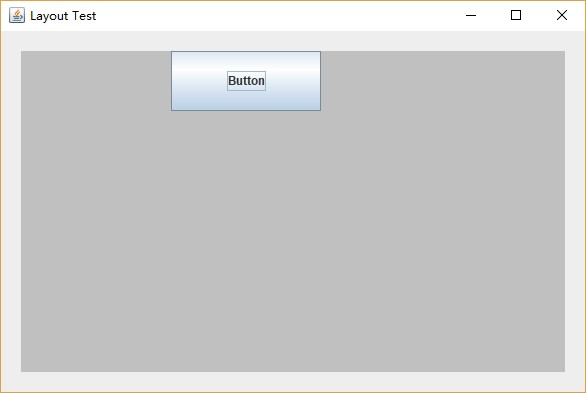
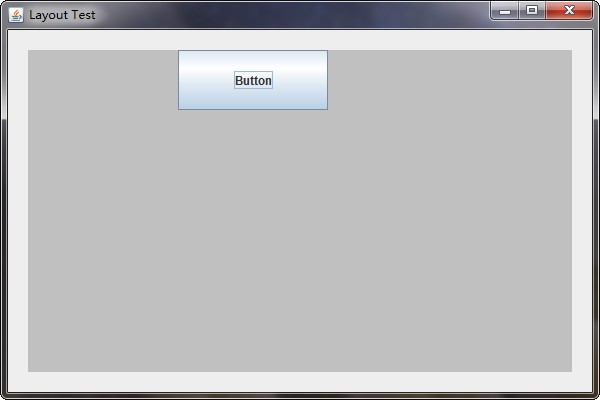
DDD/DSL Layout

Changed region(s): [[0.0, 0.0, 1.0, 1.0]]

diff --git a/DDD DSL/DDD DSL Design War Layout/Code/Java/src/fayelab/ddd/layout/TestFrm.java b/DDD DSL/DDD DSL Design War Layout/Code/Java/src/fayelab/ddd/layout/TestFrm.java
@@ -6,10 +6,13 @@ import java.awt.Container;
 import java.awt.Dimension;
 import java.awt.Toolkit;
 import java.awt.event.WindowEvent;
+import java.util.stream.Collectors;
+import java.util.stream.IntStream;
 
 import javax.swing.JFrame;
 import javax.swing.JPanel;
 
+import fayelab.ddd.layout.component.BaseComponent;
 import fayelab.ddd.layout.component.Button;
 import fayelab.ddd.layout.component.Component;
 import fayelab.ddd.layout.component.TextField;
@@ -105,6 +108,73 @@ public class TestFrm extends JFrame
     {        
         beside(empty(), button().title("Button"), 0.5f).at(0, 0, 300, 60).in(container);
     }
+    
+    private void test_center()
+    {
+        center(button().title("Center"), 0.2f, 0.1f).at(0, 0, 300, 60).in(container);
+    }
+    
+    private void test_hSeq()
+    {
+        hSeq(button().title("1"), button().title("2"), button().title("3")).at(0, 0, 300, 60).in(container);
+    }
+    
+    private void test_vSeq()
+    {
+        vSeq(button().title("1"), button().title("2"), button().title("3")).at(0, 0, 150, 200).in(container);
+    }
+    
+    private void test_block()
+    {
+        Component[] cmps = IntStream.rangeClosed(1, 11)
+                                    .mapToObj(i -> button().title(String.valueOf(i)))
+                                    .collect(Collectors.toList())
+                                    .toArray(new Component[]{});
+                
+        block(cmps, 4, 3).at(0, 0, 545, 325).in(container);
+    }
+    
+    private void test_blockWithMargin()
+    {
+        Component[] cmps = IntStream.rangeClosed(1, 11)
+                                    .mapToObj(i -> button().title(String.valueOf(i)))
+                                    .collect(Collectors.toList())
+                                    .toArray(new Component[]{});
+                
+        blockWithMargin(cmps, 4, 3, 0.1f, 0.1f).at(0, 0, 545, 325).in(container);
+    }
+
+    private void test_minicalc_without_margin()
+    {
+        Component[] operButtons = new Component[] {
+                button().title("0"), button().title("1"), button().title("2"), button().title("+"),
+                button().title("3"), button().title("4"), button().title("5"), button().title("-"),
+                button().title("6"), button().title("7"), button().title("8"), button().title("*"),
+                button().title("9"), button().title("="), button().title("%"), button().title("/")};
+
+        above(above(textField(), beside(button().title("Backspace"), button().title("C"), 0.5f), 0.5f), 
+              block(operButtons, 4, 4), 0.3f).at(0, 0, 545, 325).in(container);
+    }
+    
+    private void test_minicalc_with_margin()
+    {
+        Component[] operButtons = new Component[]{
+                button().title("0"), button().title("1"), button().title("2"), button().title("+"),
+                button().title("3"), button().title("4"), button().title("5"), button().title("-"),
+                button().title("6"), button().title("7"), button().title("8"), button().title("*"),
+                button().title("9"), button().title("="), button().title("%"), button().title("/")};
+
+        above(above(textField(), beside(button().title("Backspace"), button().title("C"), 0.5f), 0.5f), 
+              blockWithMargin(operButtons, 4, 4, 0.02f, 0.02f), 0.3f).at(0, 0, 545, 325).in(container);
+    }
+    
+    private void test_homework()
+    {
+//        above(above(beside(textField(), button().title("Btn1"), 0.7), 
+//                    beside(textField(), button().title("Btn2"), 0.7), 
+//                    0.5f),
+//              )
+    }
 
     public static void main(String[] args)
     {
@@ -115,7 +185,15 @@ public class TestFrm extends JFrame
 //        frm.test_beside();
 //        frm.test_above();
 //        frm.test_beside_above();
-        frm.test_empty();
+//        frm.test_empty();
+//        frm.test_center();
+//        frm.test_hSeq();
+//        frm.test_vSeq();
+//        frm.test_block();
+//        frm.test_blockWithMargin();
+//        frm.test_minicalc_without_margin();
+//        frm.test_minicalc_with_margin();
+        frm.test_homework();
         
         frm.centerShow();
     }

diff --git a/DDD DSL/DDD DSL Design War Layout/Code/Java/src/fayelab/ddd/layout/LayoutTool.java b/DDD DSL/DDD DSL Design War Layout/Code/Java/src/fayelab/ddd/layout/LayoutTool.java
@@ -1,11 +1,21 @@
 package fayelab.ddd.layout;
 
+import java.util.Collection;
+import java.util.List;
+import java.util.stream.IntStream;
+import java.util.stream.Stream;
+
 import fayelab.ddd.layout.component.Button;
 import fayelab.ddd.layout.component.Component;
 import fayelab.ddd.layout.component.Empty;
 import fayelab.ddd.layout.component.TextField;
 import fayelab.ddd.layout.position.Beside;
 import fayelab.ddd.layout.position.Above;
+
+import static java.util.stream.Collectors.toList;
+import static java.util.stream.Collectors.groupingBy;
+import static java.util.stream.Collectors.mapping;
+import static java.util.Arrays.asList;
 
 public class LayoutTool
 {
@@ -32,5 +42,94 @@ public class LayoutTool
     public static Component empty()
     {
         return new Empty();
+    }
+    
+    public static Component center(Component cmp, float hRatio, float vRatio)
+    {
+        return beside(empty(), 
+                      beside(above(empty(), 
+                                   above(cmp,
+                                         empty(),
+                                         (1 - 2 * vRatio) / (1 - vRatio)), 
+                                   vRatio),
+                             empty(),
+                             (1 - 2 * hRatio) / (1 - hRatio)), 
+                      hRatio);
+    }
+    
+    public static Component hSeq(Component...cmps)
+    {
+        return seq((cmp1, cmp2, ratio) -> beside(cmp1, cmp2, ratio), cmps);
+    }
+    
+    public static Component vSeq(Component...cmps)
+    {
+        return seq((cmp1, cmp2, ratio) -> above(cmp1, cmp2, ratio), cmps);
+    }
+    
+    private static Component seq(PositionLayout positionLayout, Component...cmps)
+    {
+        List<Component> cmpList = list(cmps);
+        
+        if(cmpList.size() == 1)
+        {
+            return cmpList.get(0);
+        }
+        
+        float ratio = 1.0f / cmpList.size();
+        Component firstCmp = cmpList.remove(0);
+        return positionLayout.apply(firstCmp, seq(positionLayout, array(cmpList)), ratio);
+    }
+    
+    @FunctionalInterface
+    interface PositionLayout
+    {
+        Component apply(Component cmp1, Component cmp2, float ratio);
+    }
+    
+    public static Component block(Component[] cmps, int rowNum, int colNum)
+    {
+        Collection<List<Component>> normalizedCmpList = normalize(rowNum, colNum, cmps);
+        List<Component> rows = normalizedCmpList.stream().map(rowCmps -> hSeq(array(rowCmps))).collect(toList());
+        return vSeq(array(rows));
+    }
+    
+    public static Component blockWithMargin(Component[] cmps, int rowNum, int colNum, float hRatio, float vRatio)
+    {
+        List<Component> cmpList = list(cmps);
+        
+        List<Component> centeredCmpList = cmpList.stream().map(cmp -> center(cmp, hRatio, vRatio)).collect(toList());
+        
+        return block(array(centeredCmpList), rowNum, colNum);
+    }
+
+    private static Collection<List<Component>> normalize(int rowNum, int colNum, Component[] cmps)
+    {
+        List<Component> cmpList = padding(rowNum, colNum, cmps);
+      
+        return IntStream.range(0, cmpList.size())
+                       .mapToObj(idx -> asList(idx, cmpList.get(idx)))
+                       .collect(groupingBy(idxAndCmp -> (Integer)idxAndCmp.get(0) / colNum, 
+                                mapping(idxAndCmp -> (Component)idxAndCmp.get(1), toList())))
+                       .values();
+    }
+  
+    private static List<Component> padding(int rowNum, int colNum, Component[] cmps)
+    {
+        List<Component> cmpList = list(cmps);
+      
+        int paddingNum = rowNum * colNum - cmpList.size();
+        IntStream.range(0, paddingNum).forEach(i -> cmpList.add(empty()));
+        return cmpList;
+    }
+    
+    private static List<Component> list(Component[] cmps)
+    {
+        return Stream.of(cmps).collect(toList());
+    }
+    
+    private static Component[] array(List<Component> cmps)
+    {
+        return cmps.toArray(new Component[]{});
     }
 }
